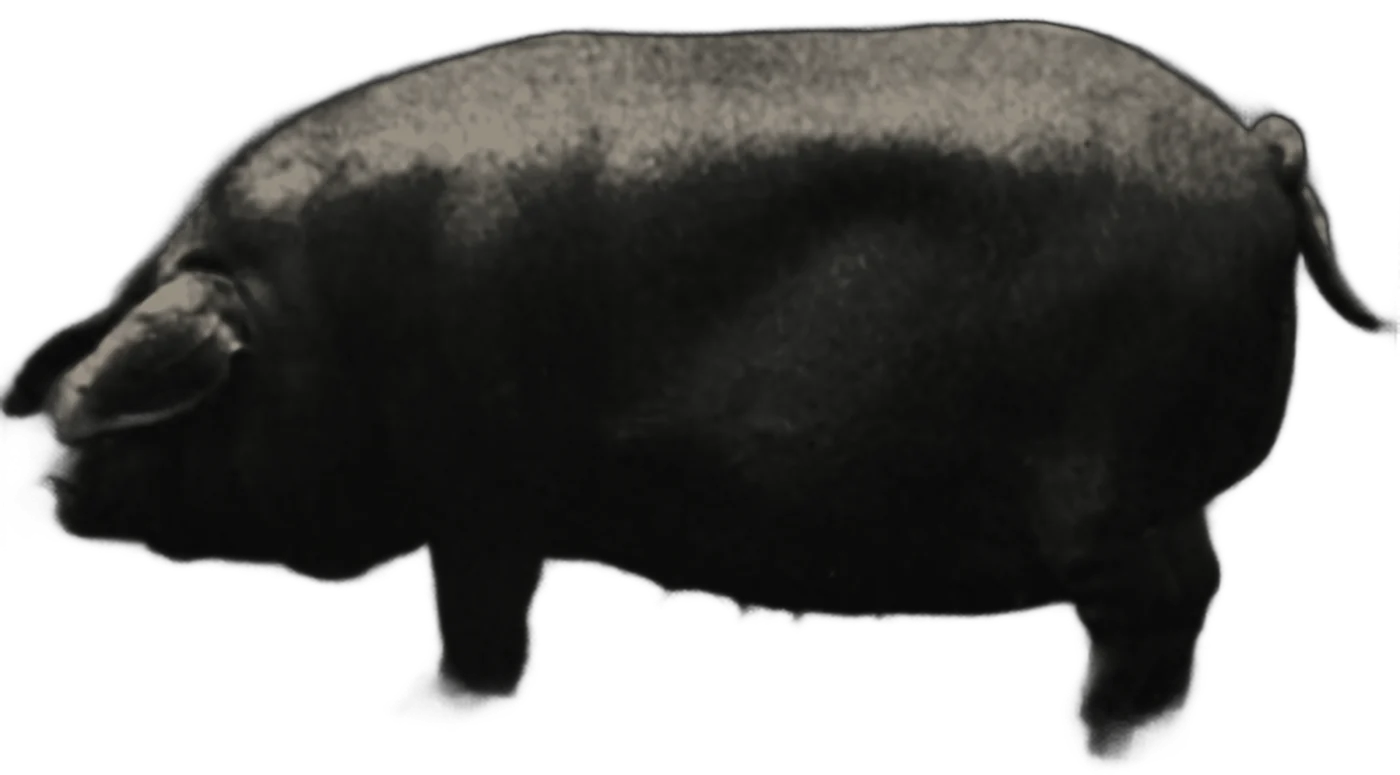
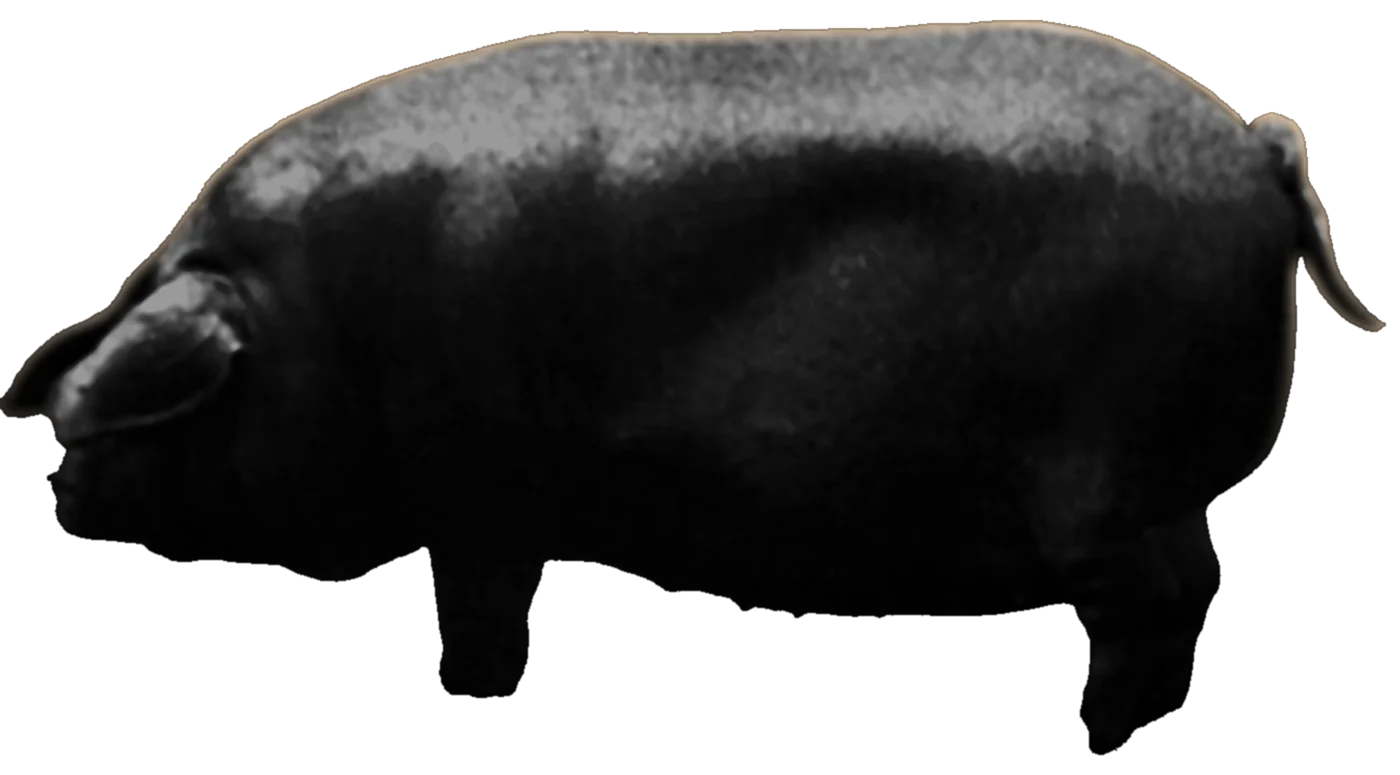
Schweinwahl: Platzhalter mit klarer Kante und Randlicht, gewaehltes Stueck hebt sich aus dem Tier heraus

diff --git a/schwein/stil.css b/schwein/stil.css
@@ -80,13 +80,11 @@ button { font: inherit; color: inherit; background: none; border: 0; padding: 0;
 .leinwand { position: relative; width: 100%; margin: 0 auto; max-width: 1180px; }
 /* Bodenschatten: das Tier steht, statt zu schweben */
 .leinwand::before {
-  content: ""; position: absolute; left: 12%; right: 10%; bottom: -1.5%; height: 9%; z-index: 0;
-  background: radial-gradient(50% 50% at 50% 50%, rgba(0, 0, 0, .55), rgba(0, 0, 0, 0) 70%);
+  content: ""; position: absolute; left: 22%; right: 9%; bottom: -2.5%; height: 7%; z-index: 0;
+  background: radial-gradient(50% 50% at 50% 50%, rgba(0, 0, 0, .6), rgba(0, 0, 0, 0) 72%);
   pointer-events: none;
 }
 .tier-svg { position: relative; z-index: 1; display: block; width: 100%; height: auto; overflow: visible; }
-/* Beine laufen unten weich ins Dunkel aus (die Vorlage ist dort unscharf) */
-.tier { -webkit-mask-image: linear-gradient(180deg, #000 86%, rgba(0, 0, 0, .25) 100%); mask-image: linear-gradient(180deg, #000 86%, rgba(0, 0, 0, .25) 100%); }
 
 /* Klickzonen: unsichtbar, bis man sie berührt */
 .zone { fill: rgba(255, 236, 214, 0); stroke: rgba(255, 238, 220, .0); stroke-width: 2; stroke-linejoin: round; cursor: pointer;
@@ -99,20 +97,23 @@ button { font: inherit; color: inherit; background: none; border: 0; padding: 0;
 /* Schnittlinien wie mit Kreide: zeigen, dass das Tier aus Stücken besteht */
 .schnitte polygon { fill: none; stroke: rgba(255, 240, 222, .2); stroke-width: 1.8; stroke-dasharray: 2 7; stroke-linecap: round; stroke-linejoin: round; pointer-events: none; transition: stroke .35s; }
 /* Sobald ein Stück gewählt ist, tritt der Rest zurück */
-.hat-wahl .zone:not(.aktiv) { fill: rgba(10, 9, 8, .52); }
+.hat-wahl .zone:not(.aktiv) { fill: rgba(10, 9, 8, .58); }
 .hat-wahl .zone.weg:not(.aktiv) { fill: url(#schraffur-dunkel); }
 .hat-wahl .schnitte polygon { stroke: rgba(255, 240, 222, .07); }
 .hat-wahl.ganz .zone { fill: rgba(244, 181, 124, .16); }   /* Hack & Bratwurst: kommt vom ganzen Tier */
 
-/* Das Leuchten: warmes Licht auf dem gewählten Stück (screen hellt auf, ohne die Fellstruktur zu verlieren) */
-.glut { fill: url(#glut-verlauf); mix-blend-mode: screen; opacity: 0; pointer-events: none; transition: opacity .3s var(--weich); }
-.glut-schein { fill: none; stroke: var(--glut); stroke-width: 10; opacity: 0; filter: url(#weich); pointer-events: none; }
-.glut-rand { fill: none; stroke: #ffe2c4; stroke-width: 2.4; stroke-linejoin: round; opacity: 0; pointer-events: none; }
-.hat-wahl .glut { opacity: .62; }
-.hat-wahl .glut-schein { opacity: .55; }
-.hat-wahl .glut-rand { opacity: .9; }
-.ganz .glut, .ganz .glut-schein, .ganz .glut-rand { opacity: 0 !important; }
-.aufleuchten .glut, .aufleuchten .glut-schein, .aufleuchten .glut-rand { animation: aufleuchten .5s var(--weich); }
+/* Das gewählte Stück hebt sich heraus: Ausschnitt des Bilds, etwas angehoben, mit Schatten und warmem Licht.
+   Zurück bleibt eine dunkle Mulde – wie ein Stück, das man aus dem Tier nimmt. */
+.heraus { pointer-events: none; opacity: 0; transition: opacity .25s var(--weich); }
+.heraus-innen { transform: translateY(0); transform-box: view-box; transition: transform .45s var(--feder); }
+.hat-wahl .heraus { opacity: 1; }
+.hat-wahl .heraus-innen { transform: translateY(-14px); }
+.hat-wahl .zone.aktiv { fill: rgba(4, 3, 2, .82); }
+.glut { fill: url(#glut-verlauf); mix-blend-mode: screen; filter: url(#weich-innen); opacity: .16; }
+.glut-schein { fill: none; stroke: var(--glut); stroke-width: 12; opacity: .28; filter: url(#weich); }
+.glut-rand { fill: none; stroke: #ffe6cc; stroke-width: 1.6; stroke-linejoin: round; opacity: .55; }
+.ganz .heraus { opacity: 0 !important; }
+.aufleuchten .heraus { animation: aufleuchten .45s var(--weich); }
 @keyframes aufleuchten { from { opacity: 0; } }
 
 /* Punkte auf dem Tier: Tippziel 44 px, sichtbar nur ein kleiner Lichtpunkt */
@@ -122,9 +123,14 @@ button { font: inherit; color: inherit; background: none; border: 0; padding: 0;
 .pin.knapp::before { background: #f3b45c; box-shadow: 0 0 0 3px rgba(243, 180, 92, .2), 0 1px 6px rgba(0, 0, 0, .5); }
 .pin.weg::before { background: transparent; box-shadow: inset 0 0 0 1.5px rgba(255, 247, 238, .5); }
 .pin.aktiv::before { transform: scale(1.25); background: #fff; box-shadow: 0 0 0 5px rgba(255, 226, 196, .25), 0 0 18px rgba(255, 210, 160, .7); }
-.hat-wahl .pin:not(.aktiv)::before { opacity: .3; }
-.pin.anstupsen::before { animation: atmen 2.4s var(--weich) 2; }
-@keyframes atmen { 50% { box-shadow: 0 0 0 9px rgba(255, 247, 238, .18), 0 1px 6px rgba(0, 0, 0, .5); } }
+.hat-wahl .pin:not(.aktiv)::before { opacity: .45; box-shadow: none; transform: scale(.75); }
+/* Einmal eine feine Welle um jeden Punkt: „hier kann man tippen“ */
+.pin::after { content: ""; position: absolute; left: 50%; top: 50%; width: 10px; height: 10px; margin: -5px 0 0 -5px; border-radius: 50%; border: 1px solid rgba(255, 247, 238, .7); opacity: 0; pointer-events: none; }
+.pin.anstupsen::after { animation: welle 1.9s cubic-bezier(.2, .6, .3, 1) 2; }
+.pin.anstupsen:nth-child(2n)::after { animation-delay: .25s; }
+.pin.anstupsen:nth-child(3n)::after { animation-delay: .5s; }
+@keyframes welle { 0% { transform: scale(1); opacity: .9; } 100% { transform: scale(4.2); opacity: 0; } }
+.hat-wahl .pin::after { display: none; }
 
 /* Etikett: Name des Stücks über dem Punkt */
 .etikett {
@@ -191,7 +197,6 @@ button { font: inherit; color: inherit; background: none; border: 0; padding: 0;
 .zu { position: relative; }
 .zu::after { content: ""; position: absolute; inset: -4px; }
 
-.mini { display: none; }
 .wo { margin-top: 10px; font-size: 15px; line-height: 1.45; color: #3e3a35; }
 .eignung { display: flex; flex-wrap: wrap; gap: 6px; margin-top: 12px; }
 .eignung li { font-size: 13px; font-weight: 550; padding: 5px 11px; border-radius: 999px; background: rgba(23, 22, 20, .055); }
@@ -277,8 +282,8 @@ button { font: inherit; color: inherit; background: none; border: 0; padding: 0;
 .blatt-offen .paketleiste { opacity: 0; pointer-events: none; transform: translateY(20px); transition: opacity .2s, transform .3s; }
 
 /* Kurze Meldung (Toast) */
-.meldung { position: fixed; z-index: 60; left: 50%; top: calc(14px + env(safe-area-inset-top)); transform: translate(-50%, -150%); background: var(--tinte); color: #fff; font-size: 14px; font-weight: 550; padding: 10px 16px; border-radius: 999px; box-shadow: 0 10px 30px rgba(0, 0, 0, .25); transition: transform .4s var(--feder); max-width: calc(100% - 32px); text-align: center; }
-.meldung.an { transform: translate(-50%, 0); }
+.meldung { position: fixed; z-index: 60; left: 50%; top: calc(14px + env(safe-area-inset-top)); transform: translate(-50%, calc(-100% - 40px)); visibility: hidden; background: var(--tinte); color: #fff; font-size: 14px; font-weight: 550; padding: 10px 16px; border-radius: 999px; box-shadow: 0 10px 30px rgba(0, 0, 0, .25); transition: transform .4s var(--feder); max-width: calc(100% - 32px); text-align: center; }
+.meldung.an { transform: translate(-50%, 0); visibility: visible; }
 
 .fuss { padding: 0 var(--rand) 100px; font-size: 12px; line-height: 1.5; color: var(--leise); text-align: center; }
 
@@ -332,8 +337,7 @@ button { font: inherit; color: inherit; background: none; border: 0; padding: 0;
   .blatt-griff { display: none; }
   .schleier { display: none; }
   .blatt-kopf h2 { font-size: 30px; }
-  .mini { display: block; margin: 14px -4px 0; border-radius: 16px; background: var(--buehne); padding: 10px 14px; }
-  .mini svg { display: block; width: 100%; height: auto; }
+  .blatt .zu { display: none; }
   .zurueck { display: inline-flex; align-items: center; gap: 4px; font-size: 14px; font-weight: 550; color: var(--leise); margin: -4px 0 10px -4px; padding: 6px 4px; }
   .zurueck svg { width: 16px; height: 16px; stroke: currentColor; stroke-width: 2; fill: none; stroke-linecap: round; }
   .zurueck:hover { color: var(--tinte); }

diff --git a/schwein/app.js b/schwein/app.js
@@ -24,7 +24,8 @@ function naechsterDienstag(ab) {
   while (d.getDay() !== 2) d.setDate(d.getDate() + 1);
   return d;
 }
-const tag = d => d.toLocaleDateString('de-DE', { weekday: 'short', day: 'numeric', month: 'numeric' }).replace(',', '');
+// „Di 27.10.“ – ohne Punkt nach dem Wochentag, spart am Handy Platz
+const tag = d => d.toLocaleDateString('de-DE', { weekday: 'short', day: 'numeric', month: 'numeric' }).replace(',', '').replace('.', '');
 const SCHLACHTUNG = naechsterDienstag(16);
 const ABHOLUNG = plusTage(SCHLACHTUNG, 3);     // der Freitag danach
 const ABHOLORT = 'Hofladen Oberlaimbach';
@@ -136,7 +137,7 @@ function zeichneKopf() {
     ? `zu ${p} % vergeben <span class="dein">· mit dir ${mitDir} %</span>`
     : `zu ${p} % vergeben`;
   // Jedes Stück für sich unteilbar, damit der Umbruch am Handy nur an den Punkten passiert
-  $('#termine').innerHTML = `<span>Schlachtung <b>${tag(SCHLACHTUNG)}</b></span> <span>· Abholung <b>${tag(ABHOLUNG)}, ${ABHOLZEIT}</b></span> <span>· ${ABHOLORT}</span>`;
+  $('#termine').innerHTML = `<span>Schlachtung <b>${tag(SCHLACHTUNG)}</b> ·</span> <span>Abholung <b>${tag(ABHOLUNG)}, ${ABHOLZEIT}</b>, ${ABHOLORT}</span>`;
   $('#tagespreis-datum').textContent = `Tagespreis ${PREISDATUM}`;
 }
 
@@ -153,24 +154,43 @@ function baueBuehne() {
   $('#leinwand').innerHTML = `
     <svg class="tier-svg" viewBox="0 0 ${w} ${h}" aria-hidden="true">
       <defs>
-        <pattern id="schraffur" width="13" height="13" patternUnits="userSpaceOnUse" patternTransform="rotate(45)">
-          <rect width="13" height="13" fill="rgba(12,11,10,.42)"/><rect width="2.2" height="13" fill="rgba(255,244,230,.2)"/>
+        <pattern id="schraffur" width="12" height="12" patternUnits="userSpaceOnUse" patternTransform="rotate(45)">
+          <rect width="12" height="12" fill="rgba(12,11,10,.38)"/><rect width="1.6" height="12" fill="rgba(255,244,230,.16)"/>
         </pattern>
         <pattern id="schraffur-dunkel" width="13" height="13" patternUnits="userSpaceOnUse" patternTransform="rotate(45)">
-          <rect width="13" height="13" fill="rgba(10,9,8,.6)"/><rect width="2.2" height="13" fill="rgba(255,244,230,.08)"/>
+          <rect width="13" height="13" fill="rgba(10,9,8,.6)"/><rect width="1.6" height="13" fill="rgba(255,244,230,.07)"/>
         </pattern>
         <radialGradient id="glut-verlauf" cx="50%" cy="35%" r="75%">
           <stop offset="0" stop-color="#ffd3a1"/><stop offset=".6" stop-color="#e59a5c"/><stop offset="1" stop-color="#a65a2a"/>
         </radialGradient>
         <filter id="weich" x="-20%" y="-20%" width="140%" height="140%"><feGaussianBlur stdDeviation="9"/></filter>
+        <filter id="weich-innen" x="-5%" y="-5%" width="110%" height="110%"><feGaussianBlur stdDeviation="5"/></filter>
+        <filter id="schatten" x="-30%" y="-30%" width="160%" height="170%">
+          <feDropShadow dx="0" dy="16" stdDeviation="14" flood-color="#000" flood-opacity=".7"/>
+        </filter>
+        <clipPath id="ausschnitt"><polygon id="ausschnitt-form" points=""/></clipPath>
+        <!-- Licht auf dem gewählten Stück: Bild heller und eine Spur wärmer, Fellstruktur bleibt sichtbar -->
+        <filter id="hell" color-interpolation-filters="sRGB">
+          <feComponentTransfer>
+            <feFuncR type="linear" slope="1.7" intercept=".045"/>
+            <feFuncG type="linear" slope="1.56" intercept=".032"/>
+            <feFuncB type="linear" slope="1.36" intercept=".022"/>
+          </feComponentTransfer>
+        </filter>
       </defs>
       <image class="tier" href="${BILD.datei}" width="${w}" height="${h}"/>
       <g class="zonen">${mitZone.map(t =>
         `<polygon class="zone" data-teil="${t.id}" points="${zonen[t.id]}"/>`).join('')}</g>
       <g class="schnitte">${mitZone.map(t => `<polygon points="${zonen[t.id]}"/>`).join('')}</g>
-      <polygon class="glut-schein" id="glut-schein" points=""/>
-      <polygon class="glut" id="glut" points=""/>
-      <polygon class="glut-rand" id="glut-rand" points=""/>
+      <!-- Das gewählte Stück hebt sich aus dem Tier heraus: Bildausschnitt + warmes Licht + Kante, mit Schatten -->
+      <g class="heraus" id="heraus" filter="url(#schatten)">
+        <g class="heraus-innen">
+          <polygon class="glut-schein" id="glut-schein" points=""/>
+          <image href="${BILD.datei}" width="${w}" height="${h}" clip-path="url(#ausschnitt)" filter="url(#hell)"/>
+          <polygon class="glut" id="glut" points=""/>
+          <polygon class="glut-rand" id="glut-rand" points=""/>
+        </g>
+      </g>
     </svg>
     <div class="pins">${mitZone.map(t => {
       const [x, y] = pins[t.id];
@@ -197,9 +217,9 @@ function zeichneBuehne() {
     p.setAttribute('aria-label', `${tt.name}, ${st === 'weg' ? 'vergeben' : `${euro(tt.preis)} je kg, ${vorratText(tt)}`}`);
     p.setAttribute('aria-pressed', String(tt.id === gewaehlt));
   });
-  // Leuchten: dieselbe Form wie die Zone, drei Lagen (Schein, Licht, Kante)
+  // Herausheben: dieselbe Form wie die Zone – Bildausschnitt, Licht und Kante
   const form = t && BILD.zonen[t.id] ? BILD.zonen[t.id] : '';
-  ['#glut', '#glut-schein', '#glut-rand'].forEach(s => $(s).setAttribute('points', form));
+  ['#glut', '#glut-schein', '#glut-rand', '#ausschnitt-form'].forEach(s => $(s).setAttribute('points', form));
   zeigeEtikett(schwebt || gewaehlt);
 }
 
@@ -255,25 +275,12 @@ const kopfZeile = (vorzeile, titel) => `
     <button type="button" class="zu" data-zu aria-label="Schließen">${ICON_ZU}</button>
   </div>`;
 
-// Kleines Schwein im Detail (Laptop): zeigt, wo das Stück am Tier sitzt
-function miniSchwein(t) {
-  const { breite: w, hoehe: h, zonen } = BILD;
-  const form = zonen[t.id];
-  return `<svg viewBox="0 0 ${w} ${h}" aria-hidden="true">
-    <image href="${BILD.datei}" width="${w}" height="${h}" opacity=".9"/>
-    ${Object.keys(zonen).map(k => `<polygon points="${zonen[k]}" fill="${t.ganz ? 'rgba(244,181,124,.22)' : 'rgba(10,9,8,.5)'}"/>`).join('')}
-    ${form ? `<polygon points="${form}" fill="url(#glut-verlauf)" style="mix-blend-mode:screen" opacity=".7"/>
-    <polygon points="${form}" fill="none" stroke="#ffe2c4" stroke-width="5" stroke-linejoin="round"/>` : ''}
-  </svg>`;
-}
-
 function zeigeTeil(id) {
   const t = teil(id);
   const st = status(t);
   ansicht = 'teil';
   if (st === 'weg') {
     blatt(`${kopfZeile(t.beiname, t.name)}
-      <div class="mini">${miniSchwein(t)}</div>
       <p class="wo">${t.wo}</p>
       <ul class="eignung">${t.fuer.map(f => `<li>${f}</li>`).join('')}</ul>
       <div class="preisblock"><p class="vorrat weg"><i class="punkt weg"></i>Von Nr. 15 schon vergeben</p></div>
@@ -286,7 +293,6 @@ function zeigeTeil(id) {
   const start = t.stueck ? t.schritt : Math.max(t.schritt, Math.floor(1 / t.schritt + 1e-9) * t.schritt);
   menge = rund2(Math.min(start, Math.floor(r / t.schritt + 1e-9) * t.schritt));
   blatt(`${kopfZeile(t.beiname, t.name)}
-    <div class="mini">${miniSchwein(t)}</div>
     <p class="wo">${t.wo}</p>
     <ul class="eignung" aria-label="Wofür">${t.fuer.map(f => `<li>${f}</li>`).join('')}</ul>
     <p class="tipp"><b>Tipp vom Hof</b>${t.tipp}</p>

diff --git a/schwein/bilder/schwein-bild.js b/schwein/bilder/schwein-bild.js
@@ -1,2 +1,2 @@
 // Erzeugt von werkzeug/schwein-zonen.mjs – Bild + Klickzonen, austauschbar
-window.SCHWEIN_BILD = {"datei":"bilder/schwein.webp","breite":1400,"hoehe":775,"zonen":{"kopf":"301,109 322,225 334,331 337,438 332,547 333,581 319,580 299,574 277,564 234,562 221,559 201,559 187,562 174,561 152,552 140,543 89,539 67,532 57,520 55,513 57,500 50,482 46,480 50,473 57,470 57,466 61,462 66,450 56,439 52,424 46,416 42,414 26,417 7,416 0,409 0,397 10,387 15,375 27,358 43,343 61,330 87,319 109,305 124,280 170,233 185,210 196,198 205,181 223,162 253,136 270,127 278,120","nacken":"555,31 561,31 563,37 585,150 600,253 567,252 501,239 446,233 380,233 324,238 314,171 302,112 303,108 340,91 403,68 494,43","schulter":"409,233 470,236 525,244 567,253 600,254 608,358 608,464 602,564 594,561 551,559 546,561 542,568 431,564 429,551 424,546 388,562 333,560 338,404 334,318 325,239","ruecken":"1012,19 1018,20 1018,22 986,149 970,242 829,255 722,254 599,242 586,150 563,30 713,33 806,28 882,28 926,23 962,23","filet":"962,243 970,243 965,281 963,320 942,322 882,321 818,308 752,282 701,253 741,256 829,256 887,252","bauch":"599,243 700,253 725,269 774,293 818,309 845,316 893,323 963,321 961,384 964,446 971,514 986,615 887,614 877,617 874,615 843,616 809,612 796,618 792,613 785,610 772,610 763,607 753,607 743,611 728,597 699,590 666,591 649,579 603,564 609,464 609,358 605,292","schinken":"1026,19 1078,26 1110,35 1142,48 1207,87 1239,113 1242,118 1245,118 1247,124 1264,113 1275,112 1292,119 1300,128 1300,256 1297,262 1295,279 1296,333 1292,380 1281,426 1267,456 1250,474 1217,495 1206,508 1209,538 1219,564 1220,573 1218,588 1209,604 985,603 971,506 964,432 962,384 964,306 974,218 987,149 1017,26 1019,20","haxe-vorne":"431,565 542,569 542,574 532,596 527,615 528,656 523,673 512,694 508,696 495,695 478,698 469,695 453,696 443,689 439,676 442,640 439,630","haxe-hinten":"1072,605 1208,605 1202,628 1196,639 1191,678 1182,705 1155,721 1150,721 1144,726 1135,729 1130,738 1117,751 1111,753 1099,755 1090,750 1088,730 1080,716 1083,689 1089,671 1090,640"},"pins":{"kopf":[207,380],"nacken":[459,150],"schulter":[469,401],"ruecken":[789,135],"filet":[867,282],"bauch":[783,447],"schinken":[1121,321],"haxe-vorne":[483,627],"haxe-hinten":[1135,667]}};
+window.SCHWEIN_BILD = {"datei":"bilder/schwein.webp","breite":1400,"hoehe":775,"zonen":{"kopf":"300,110 305,127 321,217 334,328 337,390 337,453 332,552 333,580 320,580 297,573 279,564 236,562 222,559 171,560 149,550 141,543 91,539 67,532 57,519 55,511 57,500 51,481 47,479 48,475 59,469 66,449 56,439 52,422 47,416 41,413 25,417 7,416 0,408 0,398 11,386 16,374 25,361 47,340 63,329 100,312 111,303 126,278 171,233 182,215 197,198 204,183 229,157 259,133 271,127 279,120","nacken":"556,31 562,31 579,115 593,196 600,253 567,252 501,239 447,233 380,233 325,239 302,109 341,91 404,68 495,43","schulter":"409,233 470,236 525,244 567,253 600,254 606,312 609,377 608,477 603,564 595,561 560,559 549,559 543,563 542,568 431,564 429,550 425,546 421,546 412,552 387,562 333,560 337,487 338,390 334,315 325,240 354,236","ruecken":"992,20 1018,20 1018,24 988,143 976,204 971,242 829,255 722,254 600,242 588,159 563,31 720,33 779,29 870,29 927,23 969,23","filet":"963,243 971,243 963,320 943,322 883,321 822,309 761,286 722,266 702,253 741,256 829,256 898,251","bauch":"600,243 701,253 731,272 770,291 812,307 850,317 894,323 963,321 962,397 965,450 973,524 987,614 886,614 878,617 874,615 852,616 807,612 795,617 791,612 785,610 773,610 764,607 754,606 747,610 742,610 729,597 700,590 665,590 645,577 604,564 609,477 610,377 607,312","schinken":"1019,20 1042,20 1060,23 1112,36 1149,52 1191,77 1212,91 1238,113 1247,125 1263,114 1274,112 1292,119 1300,128 1300,256 1297,261 1295,274 1296,331 1291,384 1284,416 1276,439 1267,456 1251,473 1218,494 1206,507 1205,516 1209,538 1218,561 1220,575 1218,588 1209,604 1070,604 1064,602 1053,604 986,604 974,524 965,437 963,397 964,317 970,251 981,182","haxe-vorne":"431,565 541,569 540,579 527,612 528,646 526,663 515,690 511,694 476,697 469,694 451,694 444,688 439,674 443,644 439,629","haxe-hinten":"1073,605 1208,605 1202,628 1196,638 1189,686 1181,706 1143,726 1137,727 1116,750 1113,749 1103,754 1092,752 1090,749 1089,731 1080,716 1083,691 1089,674 1090,639"},"pins":{"kopf":[207,380],"nacken":[460,150],"schulter":[469,401],"ruecken":[789,135],"filet":[867,282],"bauch":[783,447],"schinken":[1122,321],"haxe-vorne":[483,627],"haxe-hinten":[1136,666]}};
